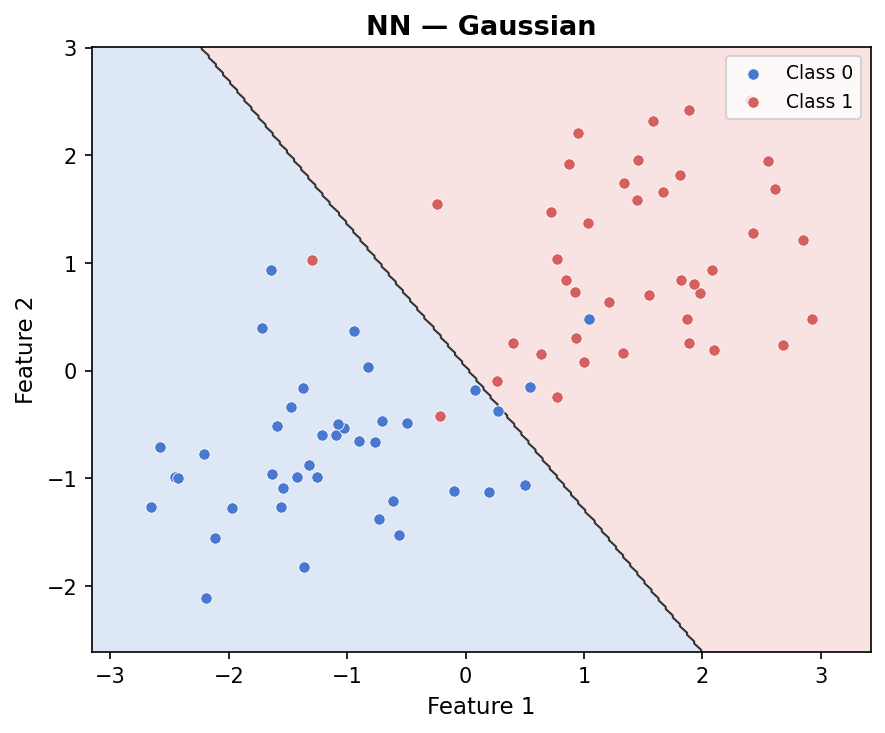
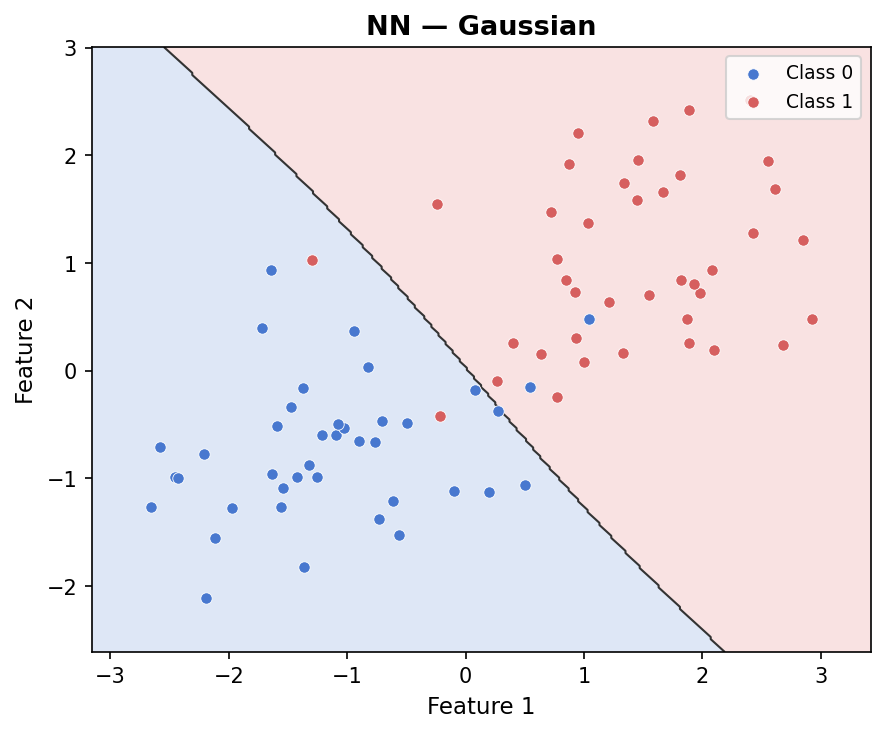
feat: implement Xavier init and refactor Moons experiment
- Replaced naive weight scaling with Xavier (Glorot) initialization in NeuralNetwork and SoftmaxRegression to ensure stable activation variance.
- Refactored Experiment 2 (Moons) to compare three models: SR Baseline, NN with default benchmark params (failure case), and NN with optimized params.

diff --git a/starter_pack/src/experiments.py b/starter_pack/src/experiments.py
@@ -39,9 +39,16 @@ def run_experiments():
     # Since the boundary is linear, SR and NN should yield nearly identical test accuracy.
     plot_decision_boundary(sr_gauss, X_te, y_te, "SR — Gaussian", _fig_path("gaussian_sr.png"))
     plot_decision_boundary(nn_gauss, X_te, y_te, "NN — Gaussian", _fig_path("gaussian_nn.png"))
-    
+
+    # Training Dynamics for Gaussian
+    plot_training_curves(
+        [hist_sr, hist_nn],
+        ['SR', 'NN'],
+        _fig_path("gaussian_dynamics.png"),
+        title="Training Dynamics: Linear Gaussian Task")
+
     print("Experiment 1 Complete: Expecting SR ≈ NN performance.")
-    
+
     # =============================================================================
     # EXPERIMENT 2: Moons
     # Context: Interlocking semi-circles (non-linearly separable).
@@ -50,20 +57,36 @@ def run_experiments():
     # =============================================================================
     
     X_tr_m, y_tr_m, X_val_m, y_val_m, X_te_m, y_te_m = load_synthetic("../data/moons.npz")
-    
-    # 1. Softmax Regression
+
+    # 1. Softmax Regression (Baseline)
     sr_moons = SoftmaxRegression(d=2, k=2, lam=1e-4, seed=0)
-    train_softmax(sr_moons, SGD(lr=0.05), X_tr_m, y_tr_m, X_val_m, y_val_m)
-    
-    # 2. Neural Network
-    nn_moons = OneHiddenLayerNN(d=2, hidden=32, k=2, lam=1e-4, seed=0)
-    train_nn(nn_moons, SGD(lr=0.1), X_tr_m, y_tr_m, X_val_m, y_val_m,epochs=1000)
-    
+    hist_sr_m = train_softmax(sr_moons, SGD(lr=0.05), X_tr_m, y_tr_m, X_val_m, y_val_m)
+
+    # 2. Neural Network — DEFAULT PARAMS (The "Failure Case")
+    # This shows why the digits protocol fails on the moons geometry
+    nn_moons_def = OneHiddenLayerNN(d=2, hidden=32, k=2, lam=1e-4, seed=0)
+    hist_nn_def = train_nn(nn_moons_def, SGD(lr=0.05), X_tr_m, y_tr_m, X_val_m, y_val_m, epochs=200)
+
+    # 3. Neural Network — OPTIMIZED PARAMS (The "Success Case")
+    # Lower lambda, higher LR, and more epochs to escape the linear plateau
+    nn_moons_opt = OneHiddenLayerNN(d=2, hidden=32, k=2, lam=1e-6, seed=0)
+    hist_nn_opt = train_nn(nn_moons_opt, SGD(lr=0.1), X_tr_m, y_tr_m, X_val_m, y_val_m, epochs=1000)
+
     # Result Visualization
     # The NN boundary should curve to wrap around the moons; the SR boundary will remain a straight line.
-    plot_decision_boundary(sr_moons, X_te_m, y_te_m, "SR — Moons", _fig_path("moons_sr.png"))
-    plot_decision_boundary(nn_moons, X_te_m, y_te_m, "NN — Moons", _fig_path("moons_nn.png"))
-    
+    plot_decision_boundary(sr_moons, X_te_m, y_te_m, "SR — Moons (Linear)", _fig_path("moons_sr.png"))
+    plot_decision_boundary(nn_moons_def, X_te_m, y_te_m, "NN — Moons (Default/Failed)",
+                           _fig_path("moons_nn_default.png"))
+    plot_decision_boundary(nn_moons_opt, X_te_m, y_te_m, "NN — Moons (Optimized/Curly)",
+                           _fig_path("moons_nn_optimized.png"))
+
+    plot_training_curves(
+        [hist_sr_m, hist_nn_def, hist_nn_opt],
+        ['SR Baseline', 'NN Default', 'NN Optimized'],
+        _fig_path("moons_comparison_dynamics.png"),
+        title="Moons Task: Impact of Parameter Choice"
+    )
+
     print("Experiment 2 Complete: Expecting NN >> SR performance.")
     
     # =============================================================================
@@ -100,6 +123,11 @@ def run_experiments():
     
     # Training Dynamics Visualization
     # Plots Loss vs Epoch and Accuracy vs Epoch for both models on one canvas
-    plot_training_curves([hist_sr_d, hist_nn_d], ['SR', 'NN'], _fig_path("training_dynamics.png"))
+    plot_training_curves(
+        [hist_sr_d, hist_nn_d],
+        ['SR', 'NN'],
+        _fig_path("digits_training_dynamics.png"),
+        title="Training Dynamics: Digits Benchmark"
+    )
     
-    print("\nExperiment 3 Complete: Dynamics saved to figures/training_dynamics.png")
+    print("\nExperiment 3 Complete: Dynamics saved to figures/digits_training_dynamics.png")

diff --git a/starter_pack/src/neural_network.py b/starter_pack/src/neural_network.py
@@ -10,14 +10,16 @@ class OneHiddenLayerNN:
         rng = np.random.default_rng(seed)
         
         # --- Layer 1 (Input to Hidden) ---
-        # Weights (W1): Scaled by 0.1 to keep initial values small. Shape: (hidden_units, input_features)
-        self.W1 = rng.standard_normal((hidden, d)) * 0.1
+        # Weights (W1): Xavier/Glorot limit: sqrt(6 / (fan_in + fan_out)) Shape: (hidden_units, input_features)
+        limit1 = np.sqrt(6 / (d + hidden))
+        self.W1 = rng.uniform(-limit1, limit1, (hidden, d))
         # Biases (b1): Initialized to zero. Shape: (hidden_units,)
         self.b1 = np.zeros(hidden)
         
         # --- Layer 2 (Hidden to Output) ---
         # Weights (W2): Shape: (num_classes, hidden_units)
-        self.W2 = rng.standard_normal((k, hidden)) * 0.1
+        limit2 = np.sqrt(6 / (hidden + k))
+        self.W2 = rng.uniform(-limit2, limit2, (k, hidden))
         # Biases (b2): Initialized to zero. Shape: (num_classes,)
         self.b2 = np.zeros(k)
         

diff --git a/starter_pack/src/softmax_regression.py b/starter_pack/src/softmax_regression.py
@@ -12,8 +12,12 @@ class SoftmaxRegression:
         rng = np.random.default_rng(seed)
 
         # Weights W initialized to shape (k, d).
-        # Scaled by 0.01 to ensure initial scores (logits) are near zero, preventing extreme probabilities in the first softmax pass.
-        self.W = rng.standard_normal((k, d)) * 0.01
+        # Initialize weights using the Xavier/Glorot criterion (U[-limit, limit]).
+        # This scales the initial weights according to the input (d) and output (k) dimensions,
+        # preserving the variance of the signal to prevent vanishing gradients and
+        # ensuring that the initial softmax probabilities remain non-extreme.
+        limit = np.sqrt(6 / (d + k))
+        self.W = rng.uniform(-limit, limit, (k, d))
         self.b = np.zeros(k)
         self.lam = lam
 
